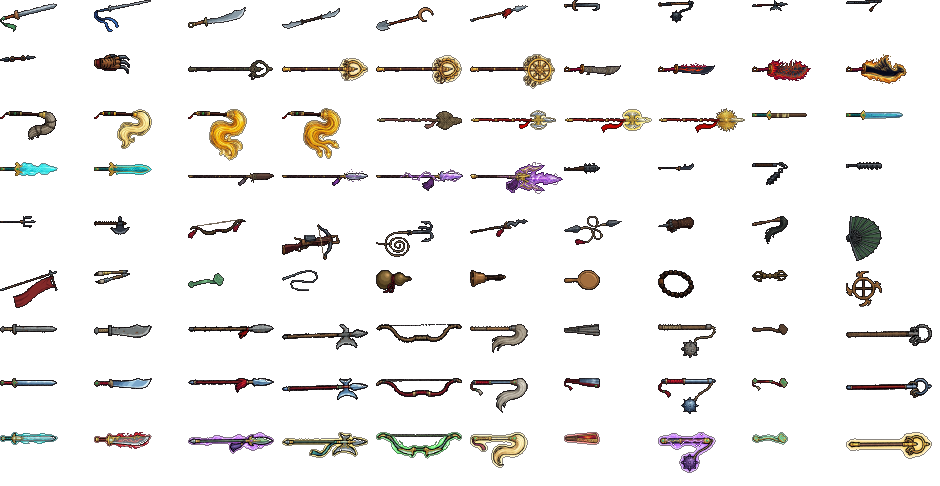
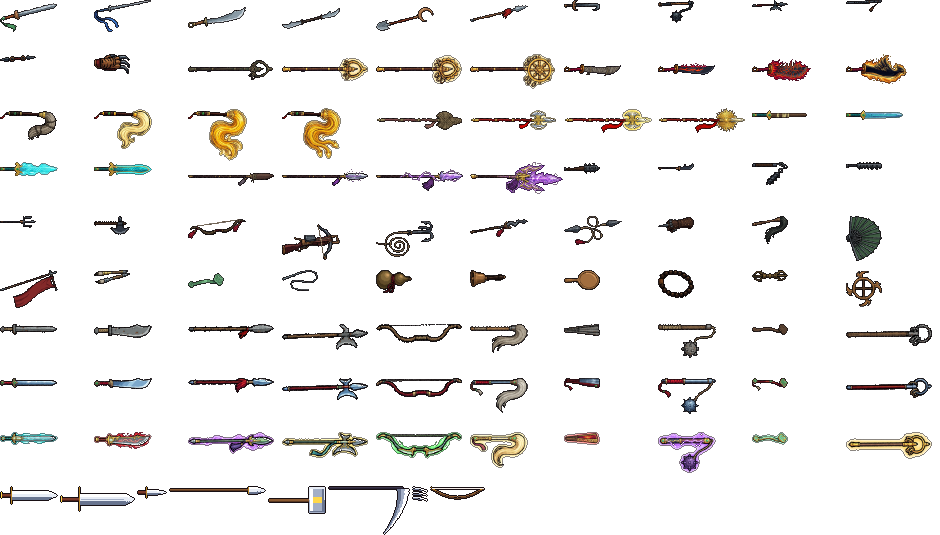
Đa Vũ Trụ Tu Tiên: pixelfx's weapons as bảo vật, given only by an admin for now
Claude-Session: https://claude.ai/code/session_01VdPTyb1mCU7X9C39NyrSkU

diff --git a/game/admin/admin.js b/game/admin/admin.js
@@ -401,18 +401,19 @@ const VIEWS = {
     const rows = await api("/t/cosmetics");
     const kind = el("select", {}, [["hair", "Tóc"], ["robe", "Y phục"], ["weapon", "Vũ khí"]].map(([v, l]) => el("option", { value: v }, l)));
     const g = el("select", {}, [["m", "Nam"], ["f", "Nữ"]].map(([v, l]) => el("option", { value: v }, l)));
-    const state = el("select", {}, [["all", "Tất cả"], ["starter", "Miễn phí (khởi đầu)"], ["sale", "Đang bán"], ["off", "Ngừng bán"]].map(([v, l]) => el("option", { value: v }, l)));
+    const state = el("select", {}, [["all", "Tất cả"], ["starter", "Miễn phí (khởi đầu)"], ["sale", "Đang bán"], ["off", "Ngừng bán"], ["special", "Bảo vật (đặc biệt)"]].map(([v, l]) => el("option", { value: v }, l)));
     const q = el("input", { placeholder: "Tìm theo tên...", type: "search" });
     const grid = el("div", { class: "grid" });
     const F = [
       { k: "name", label: "Tên", wide: true }, { k: "price", label: "Giá (linh thạch)", type: "number", step: 1 }, { k: "sort", label: "Thứ tự", type: "number", step: 1 },
       { k: "starter", label: "Miễn phí khi tạo nhân vật", type: "bool" }, { k: "on_sale", label: "Đang bán", type: "bool" },
+      { k: "special", label: "Bảo vật: không bán, chỉ tặng (sự kiện, đấu giá)", type: "bool" },
     ];
     const draw = () => {
       const gv = kind.value === "weapon" ? "a" : g.value;
       g.disabled = kind.value === "weapon";
       const list = rows.filter((r) => r.kind === kind.value && r.gender === gv &&
-        (state.value === "all" || (state.value === "starter" && r.starter) || (state.value === "sale" && r.on_sale && !r.starter) || (state.value === "off" && !r.on_sale)) &&
+        (state.value === "all" || (state.value === "special" && r.special) || (!r.special && ((state.value === "starter" && r.starter) || (state.value === "sale" && r.on_sale && !r.starter) || (state.value === "off" && !r.on_sale)))) &&
         r.name.toLowerCase().includes(q.value.trim().toLowerCase()));
       const used = new Set(rows.filter((r) => r.kind === kind.value && r.gender === gv).map((r) => r.idx));
       const total = atlas.meta[`${kind.value}_${gv}`].length;
@@ -426,7 +427,7 @@ const VIEWS = {
       grid.replaceChildren(add, ...list.map((r) => {
         const card = record({
           title: r.name, sub: `id ${r.id} · ô ${r.idx}`, row: r, fields: F,
-          extra: el("span", {}, r.starter ? el("span", { class: "tag gold" }, "Miễn phí") : null, " ", r.on_sale ? null : el("span", { class: "tag" }, "Ngừng bán"), " ", el("span", { class: "tag" }, `${r.owners} người có`)),
+          extra: el("span", {}, r.special ? el("span", { class: "tag gold" }, "★ Bảo vật") : r.starter ? el("span", { class: "tag gold" }, "Miễn phí") : null, " ", r.on_sale || r.special ? null : el("span", { class: "tag" }, "Ngừng bán"), " ", el("span", { class: "tag" }, `${r.owners} người có`)),
           onSave: async (c) => (await guard(() => api(`/t/cosmetics/${r.id}`, { method: "PATCH", body: c }), "Đã lưu.")) && (await refresh()),
           onDelete: async () => confirm(`Xóa ${r.name}? ${r.owners} người đang có món này sẽ mất nó.`) && (await guard(() => api(`/t/cosmetics/${r.id}`, { method: "DELETE" }), "Đã xóa.")) && (await refresh()),
         });
@@ -441,7 +442,7 @@ const VIEWS = {
     for (const s of [kind, g, state]) s.addEventListener("change", draw);
     q.addEventListener("input", draw);
     draw();
-    return [el("h2", {}, "Tóc, Y phục & Vũ khí"), el("p", { class: "dim" }, "Tóc và áo \"Miễn phí\" được chọn lúc tạo nhân vật; vũ khí miễn phí ai cũng dùng được trong Y Các. Còn lại bán ở Y Các trong game. Vũ khí dùng chung cho nam và nữ."), el("div", { class: "bar" }, kind, g, state, q), grid];
+    return [el("h2", {}, "Tóc, Y phục & Vũ khí"), el("p", { class: "dim" }, "Tóc và áo \"Miễn phí\" được chọn lúc tạo nhân vật; vũ khí miễn phí ai cũng dùng được trong Y Các. Còn lại bán ở Y Các trong game. Vũ khí dùng chung cho nam và nữ. \"Bảo vật\" (vd. các vũ khí của pixelfx) không bán và không miễn phí: chỉ có khi được tặng, ở trang người chơi (sau này từ hoạt động, sự kiện, đấu giá)."), el("div", { class: "bar" }, kind, g, state, q), grid];
   },
 
   async admins() {
@@ -479,7 +480,7 @@ const VIEWS = {
 
 const ACTIONS = {
   login: "đăng nhập", password: "đổi mật khẩu", "admin.add": "thêm admin", "admin.del": "xóa admin", "player.edit": "sửa người chơi", "player.item": "sửa túi đồ",
-  "player.give": "tặng tóc/áo", "player.take": "lấy lại tóc/áo", "player.ban": "khóa tài khoản", "player.unban": "mở khóa", "player.kick": "mời ra khỏi game",
+  "player.give": "tặng tóc/áo/vũ khí", "player.take": "lấy lại tóc/áo/vũ khí", "player.ban": "khóa tài khoản", "player.unban": "mở khóa", "player.kick": "mời ra khỏi game",
   "player.password": "đặt lại mật khẩu người chơi", "player.delete": "xóa tài khoản", "player.adjust": "chỉnh chỉ số", "player.level": "đặt cảnh giới",
   "player.meditation": "làm mới lượt tu luyện", "player.look": "đổi tên/ngoại hình", "player.buff": "thêm buff", "player.unbuff": "gỡ buff", "player.live": "thao tác trực tiếp",
 };
@@ -634,11 +635,15 @@ async function playerView(id) {
           act(() => api(`/players/${p.id}/look`, { method: "PATCH", body }), "Đã đổi tên/ngoại hình.");
         } }, "Lưu tên & ngoại hình"))));
 
-      // ---- hair and robes owned
+      // ---- hair, robes and weapons owned; bảo vật listed first in the gift picker
       const mine = new Set(p.owned.map((o) => o.id));
-      const pick = el("select", {}, cos.filter((c) => (c.gender === p.gender || c.gender === "a") && !c.starter && !mine.has(c.id)).map((c) => el("option", { value: c.id }, `${{ hair: "Tóc", robe: "Áo", weapon: "Vũ khí" }[c.kind]} · ${c.name} (${c.price})`)));
-      parts.push(el("div", { class: "card" }, el("h3", {}, `Tóc & y phục đã mua (${p.owned.length})`),
-        el("div", { class: "chips" }, p.owned.length ? p.owned.map((o) => el("span", { class: "chip" }, thumb(o.kind, o.gender, o.idx, ""), el("span", {}, o.name, el("small", { class: "dim" }, ` · trả ${fmt(o.paid)}`)),
+      const giftable = cos.filter((c) => (c.gender === p.gender || c.gender === "a") && (!c.starter || c.special) && !mine.has(c.id));
+      const label = (c) => `${{ hair: "Tóc", robe: "Áo", weapon: "Vũ khí" }[c.kind]} · ${c.name}${c.special ? "" : ` (${c.price})`}`;
+      const pick = el("select", {},
+        el("optgroup", { label: "★ Bảo vật (chỉ tặng)" }, giftable.filter((c) => c.special).map((c) => el("option", { value: c.id }, label(c)))),
+        el("optgroup", { label: "Đồ bán ở Y Các" }, giftable.filter((c) => !c.special).map((c) => el("option", { value: c.id }, label(c)))));
+      parts.push(el("div", { class: "card" }, el("h3", {}, `Tóc, y phục & vũ khí đang có (${p.owned.length})`),
+        el("div", { class: "chips" }, p.owned.length ? p.owned.map((o) => el("span", { class: "chip" }, thumb(o.kind, o.gender, o.idx, ""), el("span", {}, o.special ? "★ " : "", o.name, el("small", { class: "dim" }, o.special ? " · bảo vật" : ` · trả ${fmt(o.paid)}`)),
           el("button", { class: "small danger", title: "Lấy lại", onclick: () => confirm(`Lấy lại ${o.name} của người này?`) && act(() => api(`/players/${p.id}/cosmetics`, { method: "POST", body: { id: o.id, own: false } }), "Đã lấy lại.") }, "✕")))
           : el("span", { class: "dim" }, "Chưa mua món nào (các món miễn phí ai cũng có).")),
         el("div", { class: "bar" }, pick, el("button", { class: "small", onclick: () => pick.value && act(() => api(`/players/${p.id}/cosmetics`, { method: "POST", body: { id: Number(pick.value), own: true } }), "Đã tặng.") }, "Tặng"))));

diff --git a/game/server/store.js b/game/server/store.js
@@ -139,14 +139,16 @@ export function useItem(uid, item, level) {
 
 // ---------------------------------------------------------------- the wardrobe (Y Các)
 const SLOT = { hair: "hair", robe: "robe", weapon: "weapon" };
-const ITEM_COLS = "id, kind, gender, idx, name, price, starter, on_sale";
-const shapeItem = (r) => ({ id: r.id, kind: r.kind, g: r.gender, idx: r.idx, name: r.name, price: r.price, starter: !!r.starter, onSale: !!r.on_sale });
+const ITEM_COLS = "id, kind, gender, idx, name, price, starter, on_sale, special";
+// a special item (bảo vật) is never on sale and never free, whatever its other flags say
+const shapeItem = (r) => ({ id: r.id, kind: r.kind, g: r.gender, idx: r.idx, name: r.name, price: r.price, starter: !!r.starter && !r.special, onSale: !!r.on_sale && !r.special, special: !!r.special });
 
-/** Everything a player may see in the wardrobe: what's on sale, the free styles, and anything they own; plus their ids. */
+/** Everything a player may see in the wardrobe: what's on sale, the free styles, and anything they own (bảo vật only
+ * when owned); plus their ids. */
 export async function wardrobe(uid) {
   const owned = (await q("SELECT cosmetic_id FROM owned_cosmetics WHERE user_id = ?", [uid])).map((r) => r.cosmetic_id);
   const rows = await q(
-    `SELECT ${ITEM_COLS} FROM cosmetics WHERE on_sale = 1 OR starter = 1 OR id IN (SELECT cosmetic_id FROM owned_cosmetics WHERE user_id = ?)
+    `SELECT ${ITEM_COLS} FROM cosmetics WHERE (special = 0 AND (on_sale = 1 OR starter = 1)) OR id IN (SELECT cosmetic_id FROM owned_cosmetics WHERE user_id = ?)
      ORDER BY kind, gender, starter DESC, sort, idx`,
     [uid],
   );
@@ -171,6 +173,7 @@ export function buyCosmetic(uid, id, wear) {
     const [it] = await c.query(`SELECT ${ITEM_COLS} FROM cosmetics WHERE id = ?`, [id]);
     if (!it) throw new GameError("Món đồ không tồn tại.");
     if (it.gender !== ch.gender && it.gender !== "a") throw new GameError("Món này dành cho giới tính khác.");
+    if (it.special) throw new GameError("Bảo vật không bán ở Y Các; chỉ có được từ hoạt động, sự kiện hay đấu giá.", 403);
     if (it.starter) throw new GameError("Món này miễn phí, cứ mặc thôi.");
     if (!it.on_sale) throw new GameError("Món này đã ngừng bán.");
     try {
@@ -198,7 +201,7 @@ export function wearCosmetic(uid, id) {
     );
     if (!it) throw new GameError("Món đồ không tồn tại.");
     if (it.gender !== ch.gender && it.gender !== "a") throw new GameError("Món này dành cho giới tính khác.");
-    if (!it.starter && !it.mine) throw new GameError("Đạo hữu chưa có món này.", 403);
+    if ((!it.starter || it.special) && !it.mine) throw new GameError("Đạo hữu chưa có món này.", 403);
     await c.query(`UPDATE characters SET ${SLOT[it.kind]} = ? WHERE user_id = ?`, [it.idx, uid]);
     return loadCharacter(uid, c);
   }));

diff --git a/game/server/db.js b/game/server/db.js
@@ -1,7 +1,7 @@
 // MariaDB: the pool, transactions, and the schema (created on start, safe to run every time).
 import mariadb from "mariadb";
 import { config } from "./config.js";
-import { COSMETICS_SEED, WEAPONS_SEED, DEFAULT_WEAPON } from "./cosmetics-seed.js";
+import { COSMETICS_SEED, WEAPONS_SEED, SPECIAL_WEAPONS_SEED, DEFAULT_WEAPON } from "./cosmetics-seed.js";
 import { seedConfig } from "./gameconfig.js";
 
 export const pool = mariadb.createPool({
@@ -148,6 +148,8 @@ const UPGRADES = [
   "ALTER TABLE characters ADD COLUMN IF NOT EXISTS robe TINYINT UNSIGNED NOT NULL DEFAULT 0 AFTER hair",
   // the weapon in hand (Xianxia Pixel Pack); everyone starts with the plain long sword
   `ALTER TABLE characters ADD COLUMN IF NOT EXISTS weapon SMALLINT UNSIGNED NOT NULL DEFAULT ${DEFAULT_WEAPON} AFTER robe`,
+  // bảo vật: never sold, never free; only given (by an admin now, by events and the auction house later)
+  "ALTER TABLE cosmetics ADD COLUMN IF NOT EXISTS special TINYINT(1) NOT NULL DEFAULT 0 AFTER on_sale",
 ];
 
 export async function migrate() {
@@ -156,8 +158,8 @@ export async function migrate() {
   for (const s of UPGRADES) await q(s);
   // the first wardrobe; rows already there (and an admin's changes to them) are kept
   await pool.batch(
-    "INSERT IGNORE INTO cosmetics (kind, gender, idx, name, price, starter, sort) VALUES (?, ?, ?, ?, ?, ?, ?)",
-    [...COSMETICS_SEED, ...WEAPONS_SEED].map((c) => [c.kind, c.g, c.idx, c.name, c.price, c.starter ? 1 : 0, c.idx]),
+    "INSERT IGNORE INTO cosmetics (kind, gender, idx, name, price, starter, on_sale, special, sort) VALUES (?, ?, ?, ?, ?, ?, ?, ?, ?)",
+    [...COSMETICS_SEED, ...WEAPONS_SEED, ...SPECIAL_WEAPONS_SEED].map((c) => [c.kind, c.g, c.idx, c.name, c.price, c.starter ? 1 : 0, c.onSale === false ? 0 : 1, c.special ? 1 : 0, c.idx]),
   );
   // whatever a character already wears is theirs to keep, even if it is now sold in the shop
   for (const kind of ["hair", "robe", "weapon"])

diff --git a/game/public/js/main.js b/game/public/js/main.js
@@ -326,14 +326,14 @@ $("wardBtn").addEventListener("click", async () => {
   const $$ = (s) => wrap.querySelector(s);
   const bal = () => ($$(".bal").textContent = `💎 ${me.character.stones} linh thạch`);
   const grid = () => {
-    // free and owned first, then the shop from cheapest
+    // bảo vật first (only ever there when owned), then free and owned, then the shop from cheapest
     const items = w.items.filter((it) => it.kind === kind && (it.g === g || it.g === "a") && (it.onSale || has(it)));
-    items.sort((a, b) => has(b) - has(a) || a.price - b.price || a.idx - b.idx);
+    items.sort((a, b) => b.special - a.special || has(b) - has(a) || a.price - b.price || a.idx - b.idx);
     partGrid($$(".picks"), items, (it) => sel?.id === it.id, (it) => {
       sel = it;
       trying[it.kind] = it.idx;
       side();
-    }, (it) => (wearing(it) ? "✓" : has(it) ? "" : `💎${it.price}`));
+    }, (it) => (wearing(it) ? "✓" : it.special ? "★" : has(it) ? "" : `💎${it.price}`));
   };
   const side = () => {
     const b = $$(".act"), st = $$(".st");
@@ -343,7 +343,7 @@ $("wardBtn").addEventListener("click", async () => {
     st.textContent = "";
     if (!sel) return;
     if (wearing(sel)) (st.textContent = "Đang mặc"), (b.hidden = true);
-    else if (has(sel)) (st.textContent = sel.starter ? "Miễn phí" : "Đã có"), (b.textContent = "Mặc");
+    else if (has(sel)) (st.textContent = sel.special ? "★ Bảo vật" : sel.starter ? "Miễn phí" : "Đã có"), (b.textContent = "Mặc");
     else {
       st.textContent = `${sel.price} linh thạch`;
       b.textContent = me.character.stones >= sel.price ? "Mua và mặc" : "Chưa đủ linh thạch";

diff --git a/game/server/admin.js b/game/server/admin.js
@@ -75,7 +75,7 @@ const T = {
   settings: { pk: "k", order: "k", config: true, cols: { v: "num" } },
   cosmetics: {
     pk: "id", order: "kind, gender, starter DESC, sort, idx", add: true, del: true,
-    cols: { kind: "enum:hair|robe|weapon", gender: "enum:m|f|a", idx: "uint", name: "str:40", price: "uint", starter: "bool", on_sale: "bool", sort: "int" },
+    cols: { kind: "enum:hair|robe|weapon", gender: "enum:m|f|a", idx: "uint", name: "str:40", price: "uint", starter: "bool", on_sale: "bool", special: "bool", sort: "int" },
   },
 };
 
@@ -346,7 +346,7 @@ export function adminApp(world) {
     const [p] = await q(`SELECT ${PLAYER_COLS} FROM users u LEFT JOIN characters c ON c.user_id = u.id WHERE u.id = ?`, [id]);
     if (!p) throw bad("Không có người chơi này.", 404);
     const [owned, buys, pvp, history, oldBuffs] = await Promise.all([
-      q("SELECT c.id, c.kind, c.gender, c.idx, c.name, c.price, o.price AS paid, o.bought_at FROM owned_cosmetics o JOIN cosmetics c ON c.id = o.cosmetic_id WHERE o.user_id = ? ORDER BY c.kind, c.idx", [id]),
+      q("SELECT c.id, c.kind, c.gender, c.idx, c.name, c.price, c.special, o.price AS paid, o.bought_at FROM owned_cosmetics o JOIN cosmetics c ON c.id = o.cosmetic_id WHERE o.user_id = ? ORDER BY c.kind, c.idx", [id]),
       q("SELECT item, qty, price, created_at FROM purchases WHERE user_id = ? ORDER BY created_at DESC LIMIT 20", [id]),
       q(`SELECT l.killer_id, l.victim_id, l.rewarded, l.at, k.name AS killer, v.name AS victim FROM pvp_log l
          LEFT JOIN characters k ON k.user_id = l.killer_id LEFT JOIN characters v ON v.user_id = l.victim_id

diff --git a/game/public/js/avatar.js b/game/public/js/avatar.js
@@ -29,7 +29,8 @@ export function loadAvatars() {
     sheets = Object.fromEntries(names.map((n, i) => [n, imgs[i]]));
     // weapons (Xianxia Pixel Pack): for everyone, drawn pointing right with the hand's grip at (gx, gy)
     sheets.weapon_a = imgs[names.length];
-    m.weapon_a = wm.map((w) => [w.x, w.y, w.w, w.h, w.gx, w.gy]);
+    // [x, y, w, h, grip x, grip y, held upright at rest]: long arms are, and so is anything marked long (a bow)
+    m.weapon_a = wm.map((w) => [w.x, w.y, w.w, w.h, w.gx, w.gy, w.long ?? w.w > 62]);
     meta = m;
   })();
   return ready;
@@ -231,7 +232,7 @@ export function drawAvatar(p, look, st) {
     const a = P.armF, [sx, sy] = SH_F, [hx, hy] = r.hand;
     const handX = sx + hx * Math.cos(a) - hy * Math.sin(a), handY = sy + hx * Math.sin(a) + hy * Math.cos(a);
     // long arms (spears, halberds, staves) stand upright at rest; swords and the like point forward, clear of the ground
-    const long = (meta.weapon_a[look.weapon]?.[2] ?? 0) > 62;
+    const long = !!meta.weapon_a[look.weapon]?.[6];
     drawWeapon(p, look.weapon, X(Math.round(handX) + lean(sy)) + 0.5, Y(Math.round(handY) + bob(sy)) + 0.5, long ? P.longW ?? WEAPON_REST_LONG : WEAPON_REST + a, tint, true);
   }
   drawArm(p, r.armF, P.armF, P.swingF, lean, bob, tint, X, Y);

diff --git a/game/server/cosmetics-seed.js b/game/server/cosmetics-seed.js
@@ -258,3 +258,17 @@ export const WEAPONS_SEED = [
   { kind: "weapon", g: "a", idx: 88, name: "Tiên Khí V", price: 800, starter: false }, // tier3_b_04
   { kind: "weapon", g: "a", idx: 89, name: "Tiên Khí VI", price: 800, starter: false }, // tier3_b_05
 ];
+
+// Bảo vật: the weapons pixelfx draws in code (tools/xianxia/pixelfx-weapons.mjs), after the pack's 90 in the atlas.
+// Special: never sold at the Y Các and never free; a player gets one only when it is given to them (by an admin now; by
+// events, activities and the auction house later). Changed by an admin later, a row is left alone.
+export const SPECIAL_WEAPONS_SEED = [
+  { idx: 90, name: "Phá Quân Kiếm" }, // pixelfx sword
+  { idx: 91, name: "Trảm Long Đại Kiếm" }, // pixelfx greatsword
+  { idx: 92, name: "Ảnh Sát Chủy" }, // pixelfx dagger
+  { idx: 93, name: "Bá Vương Thương" }, // pixelfx spear
+  { idx: 94, name: "Lôi Thần Chùy" }, // pixelfx hammer
+  { idx: 95, name: "U Minh Liêm" }, // pixelfx scythe
+  { idx: 96, name: "Huyết Lang Trảo" }, // pixelfx claw
+  { idx: 97, name: "Lạc Nhật Cung" }, // pixelfx bow
+].map((w) => ({ kind: "weapon", g: "a", price: 0, starter: false, onSale: false, special: true, ...w }));

diff --git a/game/tools/xianxia/build.py b/game/tools/xianxia/build.py
@@ -2,10 +2,12 @@
 """Take what the game uses from the Xianxia Pixel Pack v2.1 (CC0) and put it in public/xianxia/.
 
   python3 tools/xianxia/build.py /path/to/Xianxia_Pixel_Pack        (needs Pillow and numpy)
+  python3 tools/xianxia/build.py --pixelfx-only                     (just re-add pixelfx's weapons to the atlas)
 
   terrain.png + terrain.json   the bamboo (earth), bluestone (stone) and cloud (cloud platforms) sets, 32 px tiles,
                                one row per set, in the order of TILES below
-  weapons.png + weapons.json   all 90 weapons, scaled to the characters' size, with where the hand holds each
+  weapons.png + weapons.json   all 90 weapons, scaled to the characters' size, with where the hand holds each; then
+                               pixelfx's own weapons (pixelfx-weapons.json, from pixelfx-weapons.mjs) after them
   bg/, ui/                     the buildings, far scenery and interface pieces the game uses, copied as they are
 """
 import json
@@ -103,6 +105,35 @@ def skill_icons():
         canvas.save(os.path.join(OUT, "ui", out + ".png"))
 
 
+def append_pixelfx():
+    """Add the weapons pixelfx draws (tools/xianxia/pixelfx-weapons.json) to the end of the weapons atlas, as a new row
+    below the pack's. Any pixelfx weapons already there are dropped first, so running this twice changes nothing."""
+    src = json.load(open(os.path.join(os.path.dirname(os.path.abspath(__file__)), "pixelfx-weapons.json")))
+    items = [i for i in json.load(open(os.path.join(OUT, "weapons.json"))) if not i["name"].startswith("pixelfx_")]
+    sheet = np.array(Image.open(os.path.join(OUT, "weapons.png")).convert("RGBA"))
+    top = max(i["y"] + i["h"] for i in items)
+    sheet = sheet[:top]
+    row_h = max(w["h"] for w in src)
+    width = max(sheet.shape[1], sum(w["w"] + 2 for w in src))
+    grown = np.zeros((top + row_h, width, 4), np.uint8)
+    grown[:top, : sheet.shape[1]] = sheet
+    x = 0
+    for w in src:
+        for j, row in enumerate(w["px"]):
+            for k, c in enumerate(row.split(" ")):
+                if c:
+                    grown[top + j, x + k] = (int(c[0:2], 16), int(c[2:4], 16), int(c[4:6], 16), 255)
+        item = {"name": w["name"], "x": x, "y": top, "w": w["w"], "h": w["h"], "gx": w["gx"], "gy": w["gy"]}
+        if w.get("long"):
+            item["long"] = True
+        items.append(item)
+        x += w["w"] + 2
+    Image.fromarray(grown).save(os.path.join(OUT, "weapons.png"), optimize=True)
+    with open(os.path.join(OUT, "weapons.json"), "w") as f:
+        json.dump(items, f, separators=(",", ":"))
+    print("pixelfx weapons", len(src), "added; atlas", grown.shape[1], "x", grown.shape[0], len(items), "items")
+
+
 def main():
     os.makedirs(os.path.join(OUT, "bg"), exist_ok=True)
     os.makedirs(os.path.join(OUT, "ui"), exist_ok=True)
@@ -147,9 +178,10 @@ def main():
     for n in UI:
         shutil.copy(os.path.join(PACK, "ui", n + ".png"), os.path.join(OUT, "ui", n + ".png"))
     skill_icons()
+    append_pixelfx()
     shutil.copy(os.path.join(PACK, "LICENSE.txt"), os.path.join(OUT, "LICENSE.txt"))
     print("terrain", atlas.size, "weapons", sheet.shape[1], "x", sheet.shape[0], len(items), "items")
 
 
 if __name__ == "__main__":
-    main()
+    append_pixelfx() if PACK == "--pixelfx-only" else main()

diff --git a/game/README.md b/game/README.md
@@ -5,7 +5,13 @@ tiếng Việt, đồ họa pixel lấy từ thư viện pixelfx nằm ngay tron
 
 - **Máy chủ:** Node.js + Express, WebSocket (`ws`) cho thế giới chung, MariaDB lưu dữ liệu, mặc định chạy ở cổng **5886**. Trang admin ở cổng riêng **5885** (xem phần "Trang admin").
 - **Vũ khí:** nhân vật cầm vũ khí trên tay; vũ khí vung theo đòn chém, và Phi Kiếm bay ra đúng vũ khí đang cầm. Có 90 món
-  (5 miễn phí, còn lại bán ở Y Các), nam nữ dùng chung.
+  của Xianxia Pixel Pack (5 miễn phí, còn lại bán ở Y Các), nam nữ dùng chung.
+- **Bảo vật (vũ khí đặc biệt):** 8 vũ khí lấy từ pixelfx (Phá Quân Kiếm, Trảm Long Đại Kiếm, Ảnh Sát Chủy, Bá Vương Thương,
+  Lôi Thần Chùy, U Minh Liêm, Huyết Lang Trảo, Lạc Nhật Cung). Bảo vật không bán và không miễn phí. Chưa được tặng thì
+  không hiện ở Y Các, mua hay mặc đều bị từ chối. Hiện tại admin tặng riêng cho từng người ở trang người chơi; sau này sẽ
+  có từ hoạt động, sự kiện hay đấu giá. Cột `cosmetics.special` đánh dấu bảo vật, nên admin có thể biến món khác thành
+  bảo vật. Vẽ lại các vũ khí này bằng `node tools/xianxia/pixelfx-weapons.mjs`, rồi thêm vào atlas bằng
+  `python3 tools/xianxia/build.py --pixelfx-only`.
 - **Tạo nhân vật:** chọn giới tính, nhập đạo hiệu, chọn 1 trong 5 kiểu tóc và 1 trong 5 bộ y phục khởi đầu (giản dị nhất của
   mỗi giới), xem trước nhân vật cử động: đứng, đi, nhảy, xuất chiêu.
 - **Y Các (nút 👘 trong game):** bán 35 kiểu tóc và 35 bộ y phục còn lại của mỗi giới, giá 150 / 300 / 500 linh thạch tùy độ cầu

diff --git a/game/public/maps/tiles/CREDITS.md b/game/public/maps/tiles/CREDITS.md
@@ -19,6 +19,7 @@ Also used, from `public/xianxia/` (licence text in `public/xianxia/LICENSE.txt`)
 | `xianxia/bg/*` | Golden palace, pagoda, palaces and isles on the clouds | *Xianxia Pixel Pack v2.1* | CC0 |
 | `xianxia/weapons.png` | 90 weapons, scaled to 45% | *Xianxia Pixel Pack v2.1* | CC0 |
 | `xianxia/ui/*` | Panels, buttons, bars, item and status icons, sword cursor | *Xianxia Pixel Pack v2.1* | CC0 |
+| `xianxia/weapons.png` (last row) | 8 bảo vật: pixelfx's own code-drawn weapons (sword, greatsword, dagger, spear, hammer, scythe, claw, bow), rendered flat by `tools/xianxia/pixelfx-weapons.mjs` | pixelfx (this repository) | MIT |
 | `xianxia/ui/ring_*.png` | Round frames of the action buttons, drawn for this game in the pack's style by `tools/xianxia/rings.py` | this project | CC0 |
 
 Everything else in the town (walls, doors, windows, pillars, the gate, lanterns, cherry trees, bamboo, water, sky and the
